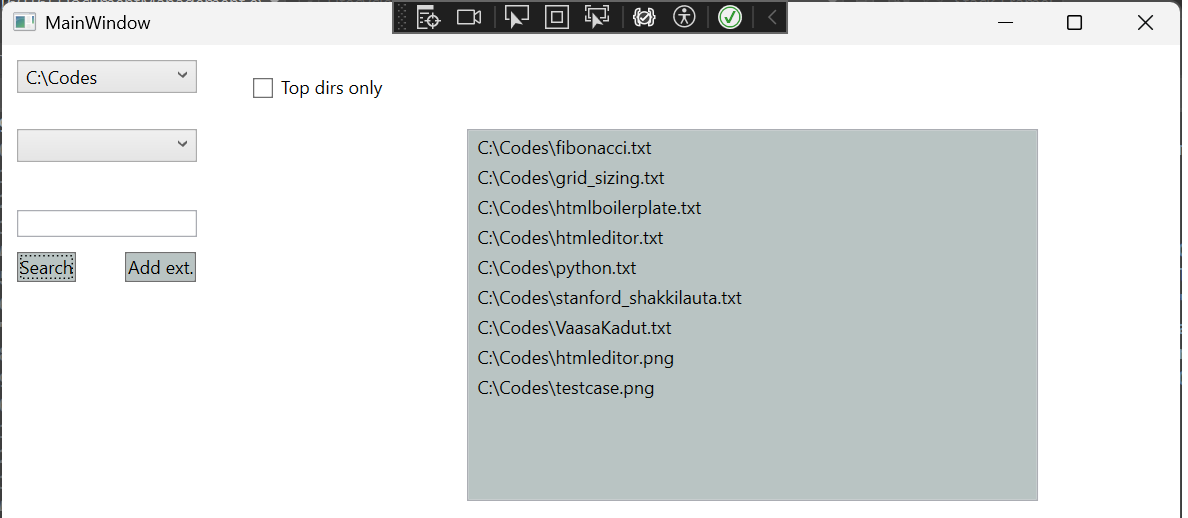
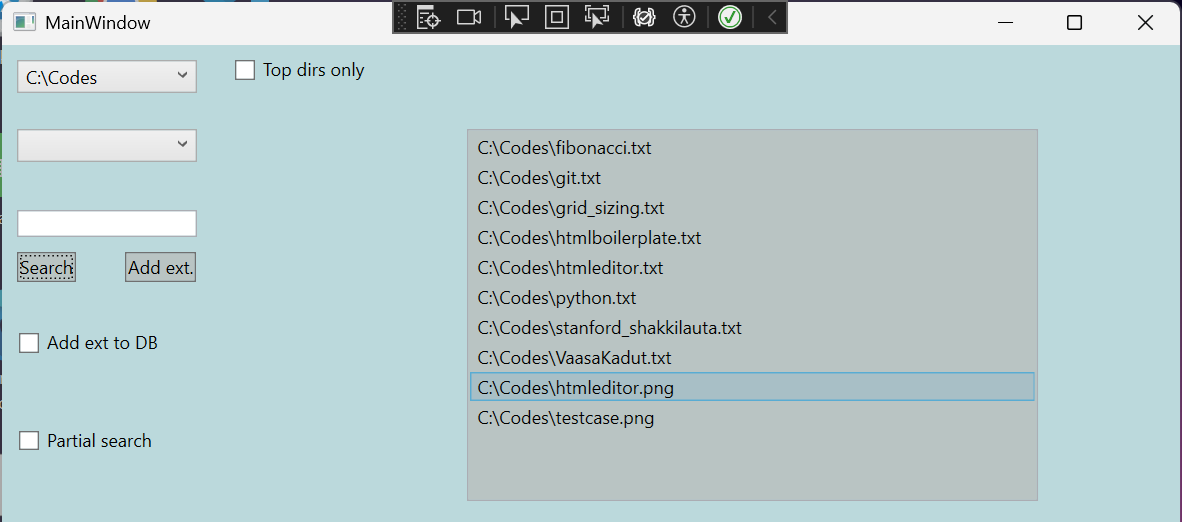
try/catch blocks added

diff --git a/DocumentManagement/MainWindow.xaml b/DocumentManagement/MainWindow.xaml
@@ -6,9 +6,9 @@
         xmlns:local="clr-namespace:DocumentManagement"
         mc:Ignorable="d"
         Title="MainWindow" Height="450" Width="800">
-    <Grid x:Name="extensionTag">
+    <Grid x:Name="extensionTag" Background="#FFBBD9DC">
         <ComboBox x:Name="options" HorizontalAlignment="Left" Margin="10,56,0,0" VerticalAlignment="Top" Width="120" SelectionChanged="options_SelectionChanged">
-            
+
         </ComboBox>
         <ListBox x:Name="lbFiles" Margin="310,56,95,109" MouseDoubleClick="lbFiles_MouseDoubleClick" MouseRightButtonDown="lbFiles_MouseRightButtonDown" MouseRightButtonUp="lbFiles_MouseRightButtonUp" Background="#FFB9C4C3"/>
         <ComboBox x:Name="directories" HorizontalAlignment="Left" Margin="10,10,0,0" VerticalAlignment="Top" Width="120" SelectionChanged="directories_SelectionChanged"/>
@@ -17,10 +17,11 @@
         <Button x:Name="addFileExtensions" Content="Add ext." HorizontalAlignment="Left" Margin="82,138,0,0" VerticalAlignment="Top" Click="addFileExtensions_Click" RenderTransformOrigin="-0.696,0.286" Background="#FFB9C4C3"/>
         <Button x:Name="serachBtn" Content="Search" HorizontalAlignment="Left" Margin="10,138,0,0" VerticalAlignment="Top" RenderTransformOrigin="0.404,0.804" Click="serachBtn_Click" Background="#FFB9C4C3"/>
         <CheckBox x:Name="addExtensionToDB" Content="Add ext to DB" HorizontalAlignment="Left" Margin="10,191,0,0" VerticalAlignment="Top" Checked="addExtensionToDB_Checked" Unchecked="addExtensionToDB_Unchecked"/>
-        <TextBox x:Name="extText" HorizontalAlignment="Left" Margin="10,217,0,0" TextWrapping="Wrap" VerticalAlignment="Top" Width="120" Visibility="Hidden"/>
-        <Button x:Name="savedbButton" Content="Save" HorizontalAlignment="Left" Margin="10,251,0,0" VerticalAlignment="Top" Visibility="Hidden" Click="savedbButton_Click"/>
-        <TextBox x:Name="searchFileTxt" HorizontalAlignment="Left" Margin="10,261,0,0" TextWrapping="Wrap" VerticalAlignment="Top" Width="120" RenderTransformOrigin="0.311,0.429"/>
-        <Button x:Name="searchFileBtn" Content="Search" HorizontalAlignment="Left" Margin="10,304,0,0" VerticalAlignment="Top" Click="searchFileBtn_Click"/>
+        <TextBox x:Name="extText" HorizontalAlignment="Left" Margin="10,226,0,0" TextWrapping="Wrap" VerticalAlignment="Top" Width="120" Visibility="Hidden"/>
+        <Button x:Name="savedbButton" Content="Save" HorizontalAlignment="Left" Margin="140,226,0,0" VerticalAlignment="Top" Visibility="Hidden" Click="savedbButton_Click"/>
+        <TextBox x:Name="searchFileTxt" HorizontalAlignment="Left" Margin="10,285,0,0" TextWrapping="Wrap" VerticalAlignment="Top" Width="120" RenderTransformOrigin="0.311,0.429" Visibility="Hidden"/>
+        <Button x:Name="searchFileBtn" Content="Search" HorizontalAlignment="Left" Margin="135,284,0,0" VerticalAlignment="Top" Click="searchFileBtn_Click" Visibility="Hidden"/>
+        <CheckBox x:Name="partialSearch" Content="Partial search&#x9;" HorizontalAlignment="Left" Margin="10,256,0,0" VerticalAlignment="Top" Click="partialSearch_Click" Unchecked="partialSearch_Unchecked"/>
 
 
     </Grid>

diff --git a/DocumentManagement/MainWindow.xaml.cs b/DocumentManagement/MainWindow.xaml.cs
@@ -42,7 +42,7 @@ namespace DocumentManagement
             //jos topdirs on true, etsitään vain pääkansiot ilman alikansioita
             if (topDirs)
             {
-               fileList = Directory.GetFiles(DirectoryPath, selectedText, SearchOption.TopDirectoryOnly);
+                fileList = Directory.GetFiles(DirectoryPath, selectedText, SearchOption.TopDirectoryOnly);
 
             }
             else
@@ -51,12 +51,12 @@ namespace DocumentManagement
 
             }
 
-                foreach (string file in fileList)
-                {
-                    Trace.WriteLine(file);
-                    lbFiles.Items.Add(file);
+            foreach (string file in fileList)
+            {
+                Trace.WriteLine(file);
+                lbFiles.Items.Add(file);
 
-                }
+            }
         }
         //etsii hakemistot c-levyltä.
         private void listDirectories()
@@ -65,7 +65,7 @@ namespace DocumentManagement
             foreach (string dir in dirs)
             {
                 directories.Items.Add(dir);
-                
+
             }
         }
 
@@ -93,18 +93,26 @@ namespace DocumentManagement
         //toteuttaa valitun tiedoston poiston hiiren oikealla painikkeella
         private void lbFiles_MouseRightButtonUp(object sender, MouseButtonEventArgs e)
         {
-            var selectedFile = (string)lbFiles.SelectedItem;
-            MessageBoxResult result = MessageBox.Show("Do you want to delete this file?",selectedFile.ToString()+ "Confirmation", MessageBoxButton.YesNo);
-            if (result==MessageBoxResult.Yes)
+            try
             {
-                File.Delete(selectedFile);
+                var selectedFile = (string)lbFiles.SelectedItem;
+                MessageBoxResult result = MessageBox.Show("Do you want to delete this file?", selectedFile.ToString() + "Confirmation", MessageBoxButton.YesNo);
+                if (result == MessageBoxResult.Yes)
+                {
+                    File.Delete(selectedFile);
+                }
+                else
+                {
+                    Trace.WriteLine("Delete cancelled");
+                }
+
             }
-            else
+            catch (Exception ex)
             {
-                Trace.WriteLine("Delete cancelled");
+                MessageBox.Show(ex.Message);
+
             }
         }
-
         //jos checkbox on valittu
         private void mainDirs_Checked(object sender, RoutedEventArgs e)
         {
@@ -122,7 +130,7 @@ namespace DocumentManagement
             string ext = fileExtensions.Text;
             fileExt.Add(ext);
             fileExtensions.Text = "";
-            
+
 
         }
 
@@ -134,20 +142,29 @@ namespace DocumentManagement
         //ja tulostaa alkiot  listbox elementtiin
         private void serachBtn_Click(object sender, RoutedEventArgs e)
         {
-            foreach (var ext in fileExt)
+            try
             {
-                fileList = Directory.GetFiles(DirectoryPath, ext, SearchOption.TopDirectoryOnly);
-                foreach (var file in fileList)
+                foreach (var ext in fileExt)
                 {
-                    lbFiles.Items.Add(file);
-                    
+                    fileList = Directory.GetFiles(DirectoryPath, ext, SearchOption.TopDirectoryOnly);
+                    foreach (var file in fileList)
+                    {
+                        lbFiles.Items.Add(file);
+
+                    }
                 }
+
+            }
+            catch (Exception ex)
+            {
+                MessageBox.Show(ex.Message);
+
             }
         }
 
         private void addExtensionToDB_Checked(object sender, RoutedEventArgs e)
         {
-            extText.Visibility=Visibility.Visible;
+            extText.Visibility = Visibility.Visible;
             savedbButton.Visibility = Visibility.Visible;
         }
 
@@ -163,16 +180,49 @@ namespace DocumentManagement
             conn.saveValues(extText);
             extText.Text = "";
         }
-
+        //tiedoston etsiminen osittaisella nimellä esim readme.txt
+        //löytyy readme* hakusanalla
         private void searchFileBtn_Click(object sender, RoutedEventArgs e)
         {
-            string partialFileName=searchFileTxt.Text;
-            DirectoryInfo dir = new DirectoryInfo(DirectoryPath);
-            FileInfo[] files = dir.GetFiles(partialFileName, SearchOption.TopDirectoryOnly);
-            foreach (var item in files)
+            try
             {
-                lbFiles.Items.Add(DirectoryPath+item);
+                string partialFileName = searchFileTxt.Text;
+                DirectoryInfo dir = new DirectoryInfo(DirectoryPath);
+                FileInfo[] files = dir.GetFiles(partialFileName, SearchOption.TopDirectoryOnly);
+                foreach (var item in files)
+                {
+                    if (files.Length > 0)
+                    {
+                        lbFiles.Items.Add(DirectoryPath + item);
+
+                    }
+                    else
+                    {
+                        lbFiles.Items.Add("File not found");
+                    }
+
+                }
+
             }
+            catch (Exception ex)
+            {
+                MessageBox.Show(ex.Message);
+
+
+            }
+
+        }
+
+        private void partialSearch_Click(object sender, RoutedEventArgs e)
+        {
+            searchFileTxt.Visibility = Visibility.Visible;
+            searchFileBtn.Visibility = Visibility.Visible;
+        }
+
+        private void partialSearch_Unchecked(object sender, RoutedEventArgs e)
+        {
+            searchFileTxt.Visibility = Visibility.Hidden;
+            searchFileBtn.Visibility = Visibility.Hidden;
         }
     }
 }

diff --git a/DocumentManagement/DBconnection.cs b/DocumentManagement/DBconnection.cs
@@ -11,9 +11,10 @@ namespace DocumentManagement
 {
     public class DBconnection
     {
-        public void fetchSqlData(System.Windows.Controls.ComboBox options) {
-            List<String>sqlData=new List<String>();
-          
+        public void fetchSqlData(System.Windows.Controls.ComboBox options)
+        {
+            List<String> sqlData = new List<String>();
+
             string connectionString = "Data Source=\"C:\\Codes\\c#\\DocumentManagement\\DocumentManagement\\documentDB.db\"";
             var connection = new SQLiteConnection(connectionString);
             // Open the connection
@@ -24,13 +25,14 @@ namespace DocumentManagement
             // Loop through the result set and read data
             while (reader.Read())
             {
-               
+
                 sqlData.Add(reader.GetString(1));
-                
+
             }
             options.ItemsSource = sqlData;
         }
-        public void saveValues(System.Windows.Controls.TextBox extText) {
+        public void saveValues(System.Windows.Controls.TextBox extText)
+        {
 
 
             string connectionString = "Data Source=\"C:\\Codes\\c#\\DocumentManagement\\DocumentManagement\\documentDB.db\"";
@@ -46,8 +48,8 @@ namespace DocumentManagement
     }
 
 
-    
+
 }
 
 
-   
+
